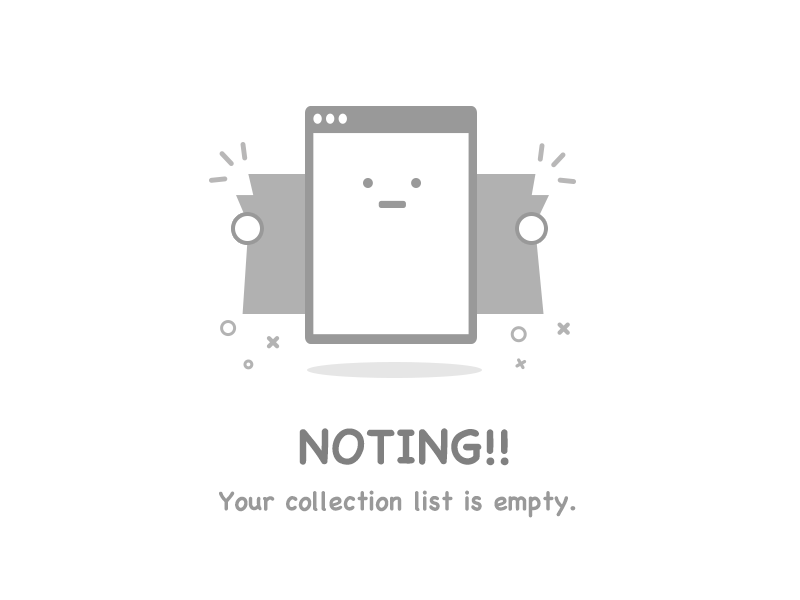
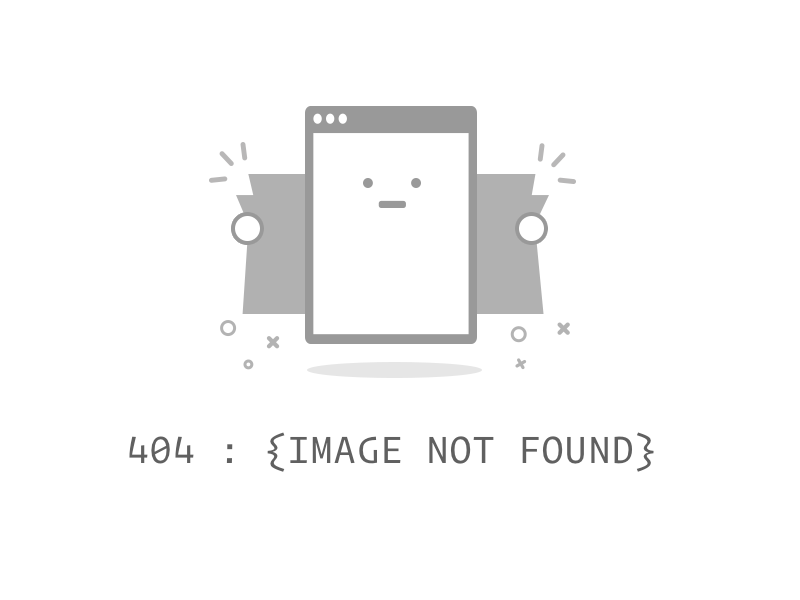
update error image

Changed region(s): [[0.3125, 0.69, 0.8125, 0.78], [0.2812, 0.81, 0.7188, 0.87], [0.1562, 0.72, 0.25, 0.78]]

diff --git a/database/database.js b/database/database.js
@@ -11,5 +11,4 @@ const deleteBook = (id) => db.none('DELETE FROM books WHERE ID = $1', [id])
 
 const updateBook = (id, title, author, genre, image, description) => db.none('UPDATE books SET (title, author, genre, image, description) = ($2, $3, $4, $5, $6) WHERE id = $1', [id, title, author, genre, image, description])
 
-
 module.exports = { createBook, getAllBooks, getBook, deleteBook, updateBook }

diff --git a/README.md b/README.md
@@ -12,7 +12,7 @@
   - [ ] Search for books by title OR by author OR by genre (_read_)
   - [x] View book details on a book detail page (_read_)
 - [ ] Lists of books are always paginated in groups of 10
-- [ ] Book detail view is linked to from the listing and search pages
+- [x] Book detail view is linked to from the listing and search pages
 - [ ] Search results are presented in a new page
 - [ ] Appropriate HTTP verbs are used for CRUD actions
   - [x] `GET` requests are only used for _read_ actions
